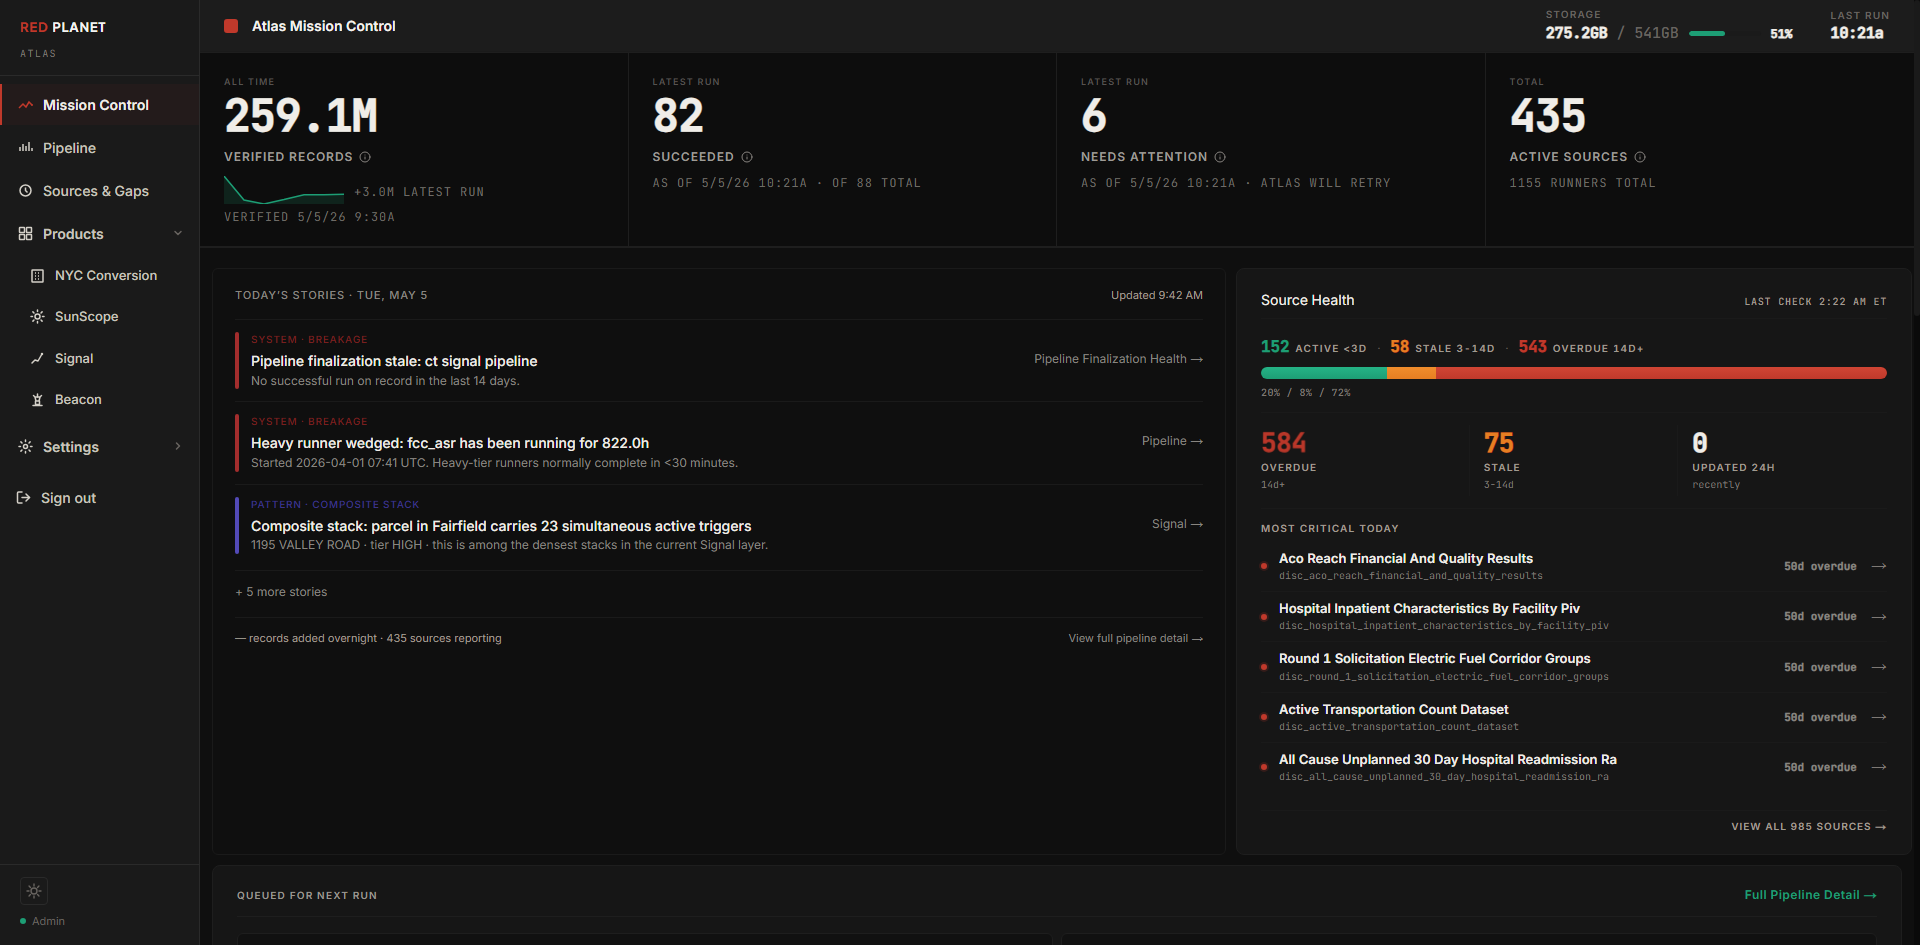
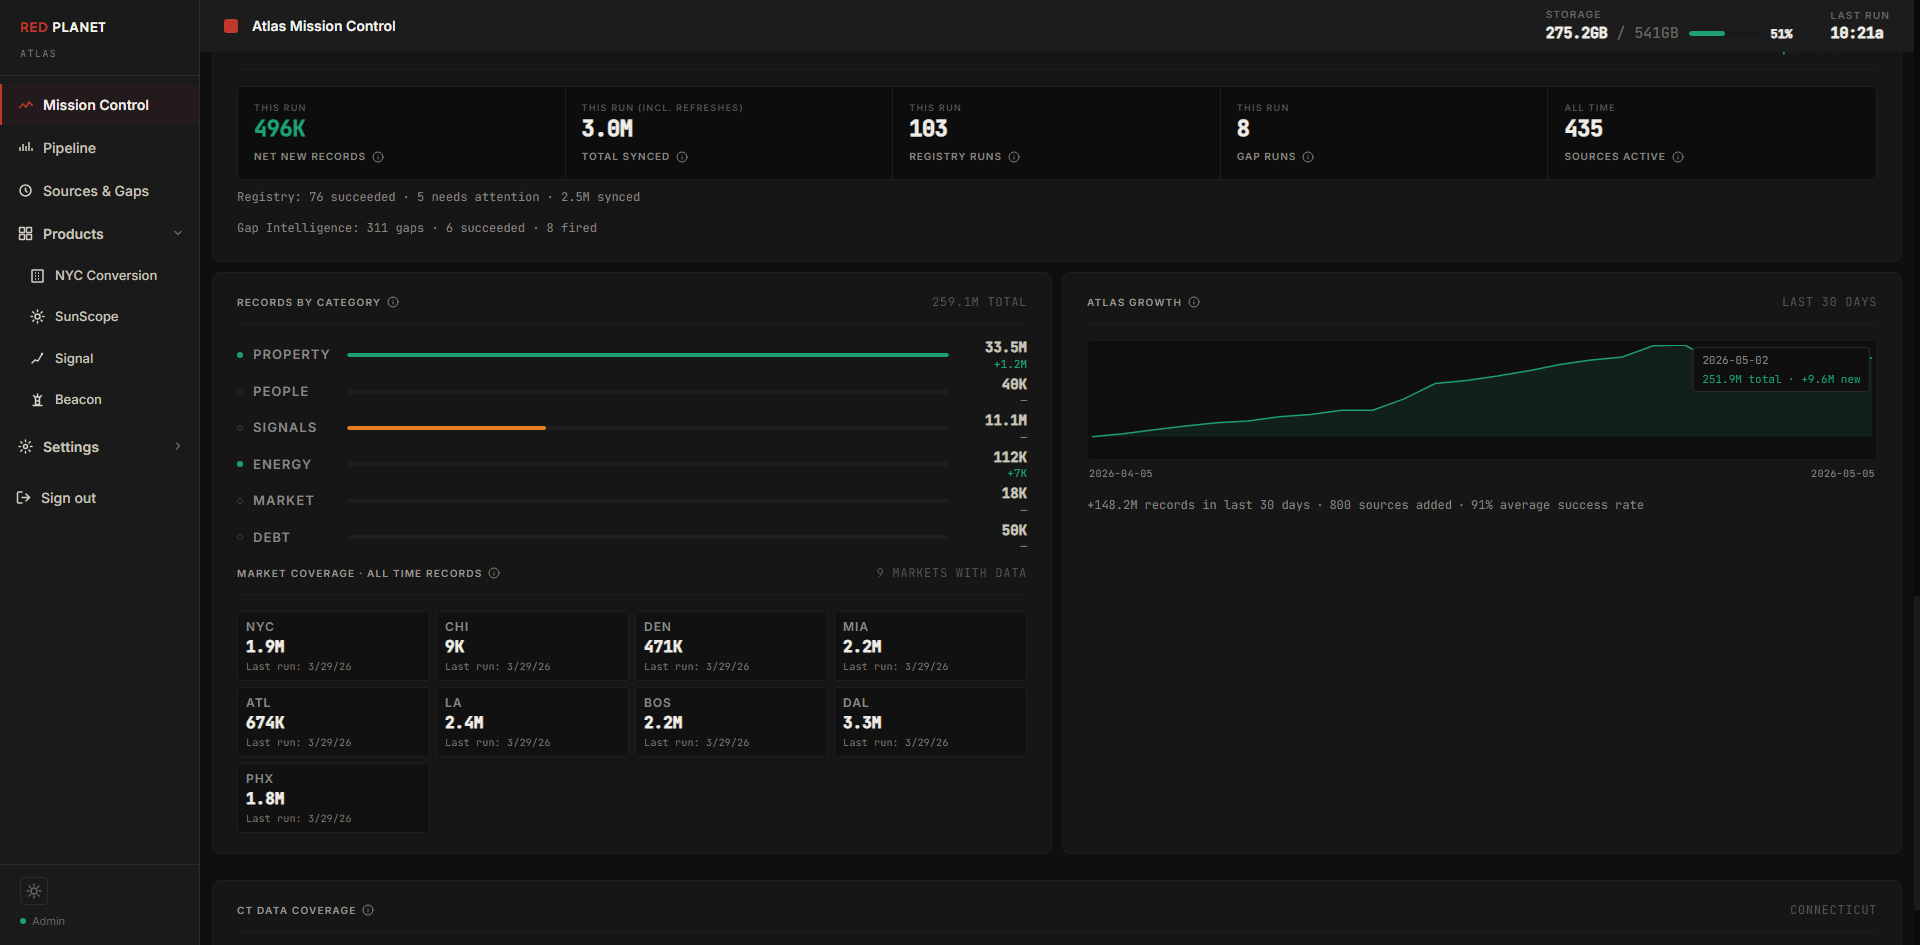
docs: rename images + reposition per docs spec
Image rename map:
- mission-control-overview.png  ← was data-asset-coverage.png
                                  (Mission Control bottom: records,
                                  growth, market coverage)
- mission-control-detail.png    ← was mission-control-overview.png
                                  (Mission Control top: source health,
                                  today's stories)
- sunscope-map.png              ← was sunscope-ct.png

Placement changes:
- 02 keeps mission-control-overview at top (file content swapped)
- 03 swapped to pipeline-health (was data-asset-coverage)
- 04 sunscope-map moved from intro to after Real Examples
- 05 single image (mission-control-detail) after How Failures Are
  Detected; removed top pipeline-health, mission-control reuse, and
  sources-and-gaps from this page
- 07 adds sources-and-gaps after opening paragraph (new on this page)

Each image now has italic caption line per docs spec format.

diff --git a/public/05-pipeline-and-self-correction.md b/public/05-pipeline-and-self-correction.md
@@ -2,8 +2,6 @@
 
 Atlas operates as a continuous ingestion and enrichment engine. At any given moment hundreds of runners are executing across dozens of data source categories — pulling, normalizing, verifying, and storing records without human intervention. Understanding how this works is essential to understanding what the data asset actually is, how it stays current, and how it stays healthy at scale.
 
-![Pipeline health by category — record counts, weekly deltas, and per-source status](images/pipeline-health.png)
-
 ## Source Discovery
 
 Atlas does not rely on a fixed list of manually curated sources. The engine includes an autodiscovery layer that continuously identifies new data sources across government portals, court record systems, county assessor databases, state entity registries, and similar public-record domains. When a new source is identified it is added to the source registry, categorized, and queued for ingestion development.
@@ -40,6 +38,9 @@ A data platform that requires constant human intervention to stay healthy does n
 
 Every runner execution is logged and continuously monitored. Failures, silent sources, and quality regressions are identified automatically and routed to the appropriate response path. Detection is not reactive — the system identifies degradation patterns before they become failures, so investigation begins before a source goes fully offline.
 
+![Atlas Mission Control — real-time pipeline activity, source health, and system alerts](images/mission-control-detail.png)
+*Atlas Mission Control — real-time pipeline activity, source health, and system alerts*
+
 ## Automated Recovery
 
 When a problem is detected the self-correction layer attempts recovery automatically. Issues that can be resolved programmatically are resolved without human involvement. Issues that cannot are escalated with full diagnostic context so a human can intervene with complete information rather than diagnosing from scratch.
@@ -50,13 +51,9 @@ Every source in Atlas carries a health status that updates automatically based o
 
 This visibility is what makes managing a platform of **447** active sources tractable. At any given moment the health of every data source is known, classified, and actionable.
 
-![Source health distribution at a glance — active, stale, and overdue counts with most-critical surfacing](images/mission-control-overview.png)
-
 ## Gap Discovery
 
 Beyond monitoring existing sources Atlas actively identifies coverage gaps — geographies, data categories, or asset classes where coverage is thin or missing entirely. The gap discovery system scores these gaps by priority and automatically queues new source development to fill them. The platform does not wait to be told where it is incomplete — it finds out on its own.
-
-![Discovered data gaps with fit scores, missing fields, and queued ingestion plans](images/sources-and-gaps.png)
 
 ---
 

diff --git a/public/04-platform-and-velocity.md b/public/04-platform-and-velocity.md
@@ -12,8 +12,6 @@ Atlas sits at the foundation. On top of it anything can be built — a consumer-
 
 Red Planet builds its own products on Atlas. Third parties can build on Atlas. Clients can access Atlas directly through the API and build whatever they need internally. The platform does not dictate the use case — the use case dictates how the platform is used.
 
-![SunScope — a property-intelligence product built on Atlas](images/sunscope-ct.png)
-
 ## Why This Model Wins
 
 Legacy providers built vertically — they own the data, the interface, and the relationship. That creates lock-in but it also creates a ceiling. Their product can only be as good as their roadmap allows.
@@ -45,6 +43,9 @@ Atlas has already demonstrated this velocity across multiple verticals:
 **CT Solar Intelligence** — Properties scored across solar potential, roof characteristics, utility rates, and incentive eligibility. A complete solar lead intelligence product built on existing Atlas parcel and climate data.
 
 **Distress Intelligence** — Homeowner and commercial distress signals surfaced from filing activity, tax delinquency, and ownership patterns. A product serving nonprofit housing counselors and institutional investors simultaneously from the same underlying data.
+
+![SunScope — CT Solar Property Intelligence, built on Atlas data](images/sunscope-map.png)
+*SunScope — CT Solar Property Intelligence, built on Atlas data*
 
 ## The Implication for New Markets
 

diff --git a/public/07-data-quality-and-where-were-going.md b/public/07-data-quality-and-where-were-going.md
@@ -2,6 +2,9 @@
 
 At the scale Atlas operates, data quality is not a feature — it is an operational requirement. A record that cannot be trusted is worse than no record at all. Atlas is built around this principle from the ground up. As of **2026-05-05 13:03 UTC**, Atlas holds **259,053,764** verified records across **447** active sources, with quality classification applied across the core property and parcel layer.
 
+![Atlas Sources & Gaps — automated gap discovery with fit scoring and acquisition recommendations](images/sources-and-gaps.png)
+*Atlas Sources & Gaps — automated gap discovery with fit scoring and acquisition recommendations*
+
 ## The Four-Tier System
 
 Every record in Atlas carries a quality classification. The system is automatic — records are evaluated at ingestion and re-evaluated continuously as new corroborating data arrives.

diff --git a/public/02-atlas-and-intelligence-layer.md b/public/02-atlas-and-intelligence-layer.md
@@ -4,7 +4,8 @@ Atlas is not a database. It is not a data vendor. It is not a scraper. It is an 
 
 The distinction matters. A database stores what you put into it. Atlas decides what it needs, goes and gets it, verifies it, and makes it queryable. The engine is self-directing — it identifies gaps in its own coverage, discovers new sources to fill them, builds the pipelines to ingest them, and monitors its own health continuously.
 
-![Atlas Mission Control — live record count, active runners, and source health](images/mission-control-overview.png)
+![Atlas Mission Control — live record count, active sources, and 30-day growth](images/mission-control-overview.png)
+*Atlas Mission Control — live record count, active sources, and 30-day growth*
 
 ## Autonomous by Design
 

diff --git a/public/03-the-data-asset.md b/public/03-the-data-asset.md
@@ -2,7 +2,8 @@
 
 Atlas is built around a single principle — the most valuable data is the data nobody else has. Not aggregated feeds. Not licensed vendor content. Proprietary records sourced, normalized, and maintained by the engine itself, growing autonomously every night. As of **2026-05-04 19:45 UTC**, Atlas holds **249,263,871** verified records across **447** active sources.
 
-![Records by category, 30-day growth, and market coverage across nine cities](images/data-asset-coverage.png)
+![Atlas Pipeline Health — data categories, source counts, and 7-day activity](images/pipeline-health.png)
+*Atlas Pipeline Health — data categories, source counts, and 7-day activity*
 
 ## Property & Parcel Data
 
